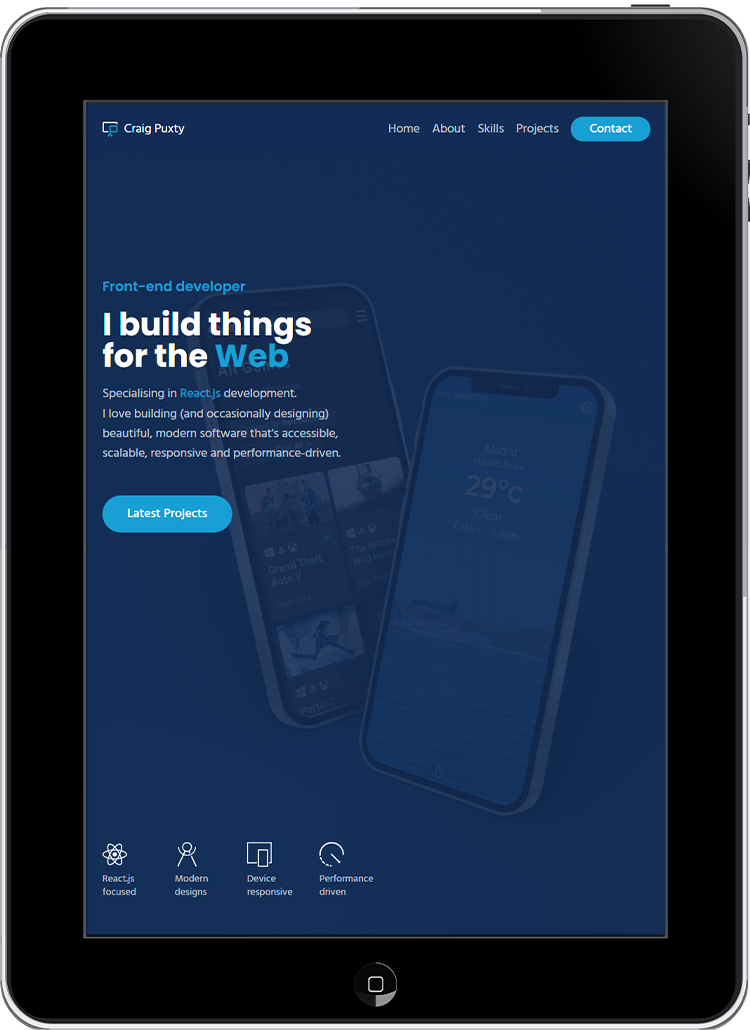
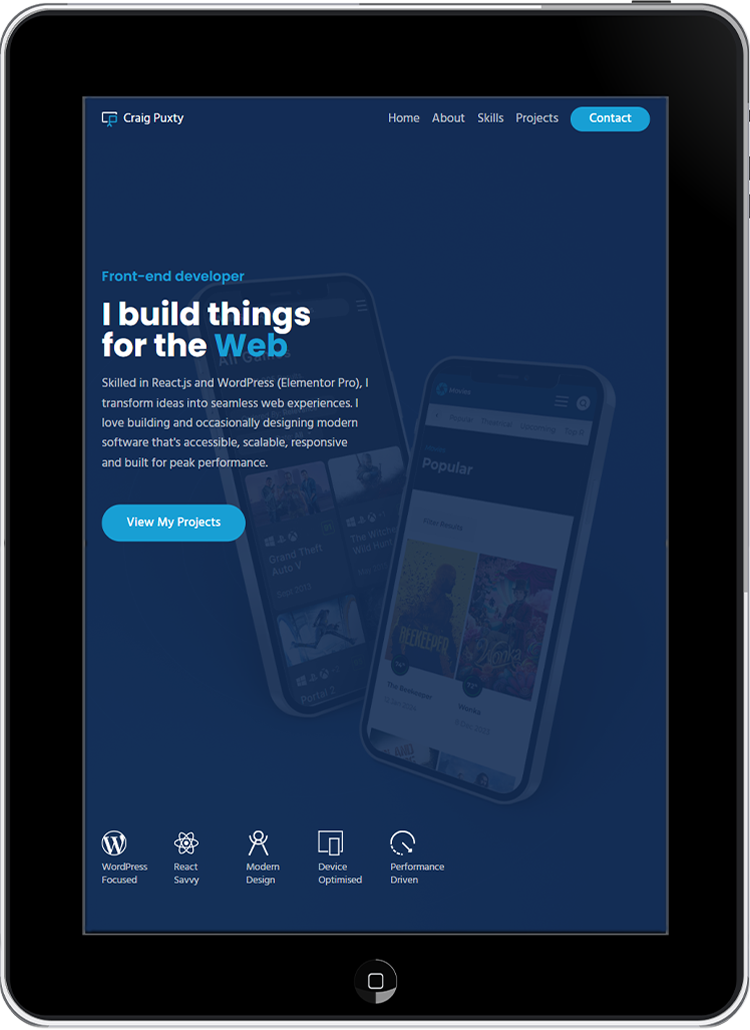
Portfolio project update.

diff --git a/src/data/projects/portfolio.ts b/src/data/projects/portfolio.ts
@@ -30,7 +30,7 @@ export const portfolio = {
     },
   ],
   description:
-    "Offering a concise snapshot of my identity, proficiency, and current array of services for potential clients and employers. I'm confident that articulating a well-defined and comprehensive account of my capabilities, expertise, and personal journey will highlight me as a dependable and credible provider of top-tier work. Moreover, I'm dedicated to consistently enhancing and broadening my skill set, remaining abreast of the most recent industry advancements and optimal approaches to ensure the delivery of inventive and practical solutions.",
+    "This site (yes, the one you're on) is a snapshot of who I am, what I do, and how I work. It’s designed to showcase my skills, highlight my services, and give potential clients or employers a clear, honest look at my experience and approach. I’ve built it to be clean, responsive and performance focused, with room to evolve as I continue to grow. I believe a well crafted portfolio should speak for itself, and mine is no exception. From the way it's structured to the tools under the hood, everything here reflects my commitment to building thoughtful, user focused web experiences.",
   apis: null,
   third_party: [
     {

diff --git a/README.md b/README.md
@@ -1,33 +1,39 @@
 # Portfolio.v3
 
-Offering a concise snapshot of my identity, proficiency, and current array of services for potential clients and employers. I'm confident that articulating a well-defined and comprehensive account of my capabilities, expertise, and personal journey will highlight me as a dependable and credible provider of top-tier work. Moreover, I'm dedicated to consistently enhancing and broadening my skill set, remaining abreast of the most recent industry advancements and optimal approaches to ensure the delivery of inventive and practical solutions.
+![Portfolio Screenshot](./assets/portfolio-project.webp)
+
+A clean, responsive single page application that offers a concise snapshot of who I am, what I do, and how I work. Built to showcase my skills, reflect my journey, and serve as a central hub for potential clients and collaborators.
+
+This project reflects my commitment to writing clean, scalable code and building thoughtful, user focused digital experiences.
 
 ## Design
 
-Aimed to integrate contemporary, responsive design, graceful aesthetics, seamless transitions, and user-friendly features to swiftly deliver comprehensive information to both technical and non-technical audiences.
+The goal was to create a modern, elegant design with smooth transitions and a layout that’s easy to navigate for both technical and non technical users.
 
 ## Features
 
 - Single page application (SPA)
-- Responsive layout & images
-- Bespoke SVG icons
-- Mobile menu - able to be toggled to save space on smaller screens
-- Navigation - smooth scroll on click to relevant sections
-- Gsap animation & scroll triggers
-- Modal - to confirm action to download curriculum vitae
-- Toast - to explain form status
-- Tooltips - to help identify icons
-- Curriculum vitae download (PDF format)
-- Contact form
+- Responsive layout and optimised images
+- Custom SVG icons
+- Mobile friendly toggle menu
+- Smooth scroll navigation
+- GSAP animation and scroll triggers
+- Toast notifications for form status
+- Tooltips for icon context
+- Functional contact form using EmailJS
 
-## Technologies
+## Project Focus
+
+This project gave me the chance to put several established skills into practice, including working with TypeScript in a React environment and applying GSAP for smooth, performant animation. It also helped me refine my approach to structure, responsiveness and creating a polished user experience.
+
+## Core Technologies
 
 - HTML5
 - Sass / Scss
 - TypeScript
 - React
 
-## Third party
+## Third Party Tools
 
 - React icons
 - React router
@@ -38,3 +44,7 @@ Aimed to integrate contemporary, responsive design, graceful aesthetics, seamles
 
 - Adobe Photoshop
 - Adobe Illustrator
+
+## Live Site
+
+[www.craigpuxty.dev](https://craigpuxty.dev/)
